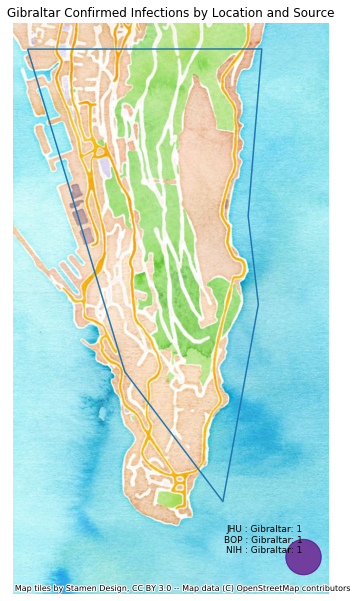
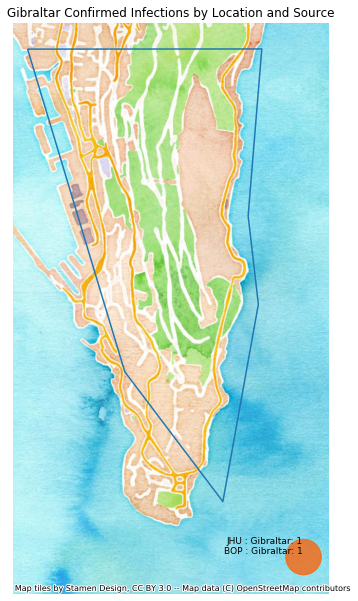
daily update

Changed region(s): [[0.6145, 0.8686, 0.9218, 0.9584]]

diff --git a/country_reports/Hong_Kong_report.md b/country_reports/Hong_Kong_report.md
@@ -1,6 +1,6 @@
 # Hong Kong
 ## NSSAC COVID-19 Summary
-## 03/11/2020
+## 03/12/2020
 
 
 
@@ -16,7 +16,7 @@
 |                           | Tencent                       | JHU                         | NIHFogarty       | BOP              |
 |---------------------------|-------------------------------|-----------------------------|------------------|------------------|
 | First update logged       | 02/04/20                      | 01/22/20                    | 01/13/20         | 01/12/20         |
-| Last update logged        | 03/11/20                      | 03/10/20                    | 03/10/20         | 03/09/20         |
+| Last update logged        | 03/11/20                      | 03/10/20                    | 03/11/20         | 03/09/20         |
 | Method                    | Daily cases in country scrape | Cases by day & country list | Public line list | Public line list |
 | First known case          | 02/04/20                      | 01/22/20                    | 01/22/20         | 01/22/20         |
 | Total confirmed cases     | 126                           | 120                         | 102              | 45               |

diff --git a/country_reports/Gibraltar_report.md b/country_reports/Gibraltar_report.md
@@ -1,6 +1,6 @@
 # Gibraltar
 ## NSSAC COVID-19 Summary
-## 03/11/2020
+## 03/12/2020
 
 
 
@@ -40,11 +40,10 @@ Data sources: BOP, JHU,
 
 | source   | loc_name   |   confirmed |
 |----------|------------|-------------|
-| NIH      | Gibraltar  |           1 |
 | JHU      | Gibraltar  |           1 |
 | BOP      | Gibraltar  |           1 |
 
-Data sources: BOP, JHU, Natural Earth, NIH-Fogarty, Tencent
+Data sources: BOP, JHU, Natural Earth, Tencent
 
 
 [Case points geojson](https://github.com/SchlittDataSci/SchlittDataSci.github.io/blob/master/data/shapes/Gibraltar_case_locs.geojson)

diff --git a/country_reports/Greece_report.md b/country_reports/Greece_report.md
@@ -1,6 +1,6 @@
 # Greece
 ## NSSAC COVID-19 Summary
-## 03/11/2020
+## 03/12/2020
 
 
 
@@ -40,7 +40,7 @@ Data sources: BOP, JHU,
 
 | source   | loc_name          |   confirmed |
 |----------|-------------------|-------------|
-| NIH      | Greece            |          89 |
+| NIH      | Greece            |          99 |
 | JHU      | Greece            |          89 |
 | BOP      | Ilia Prefecture   |          13 |
 | BOP      | Attica Prefecture |           7 |

diff --git a/country_reports/Holy_See_report.md b/country_reports/Holy_See_report.md
@@ -1,6 +1,6 @@
 # Holy See
 ## NSSAC COVID-19 Summary
-## 03/11/2020
+## 03/12/2020
 
 
 
